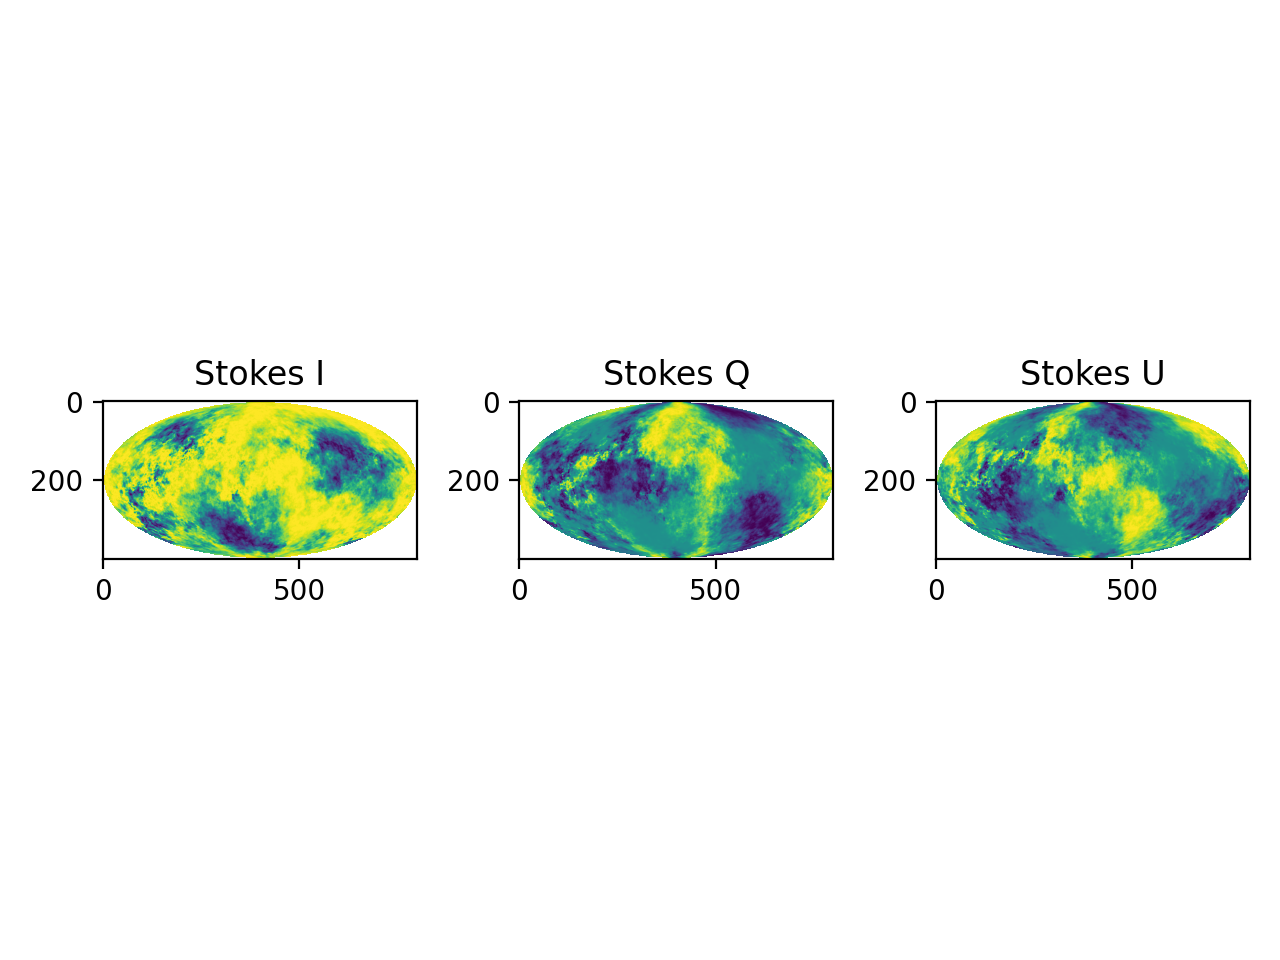
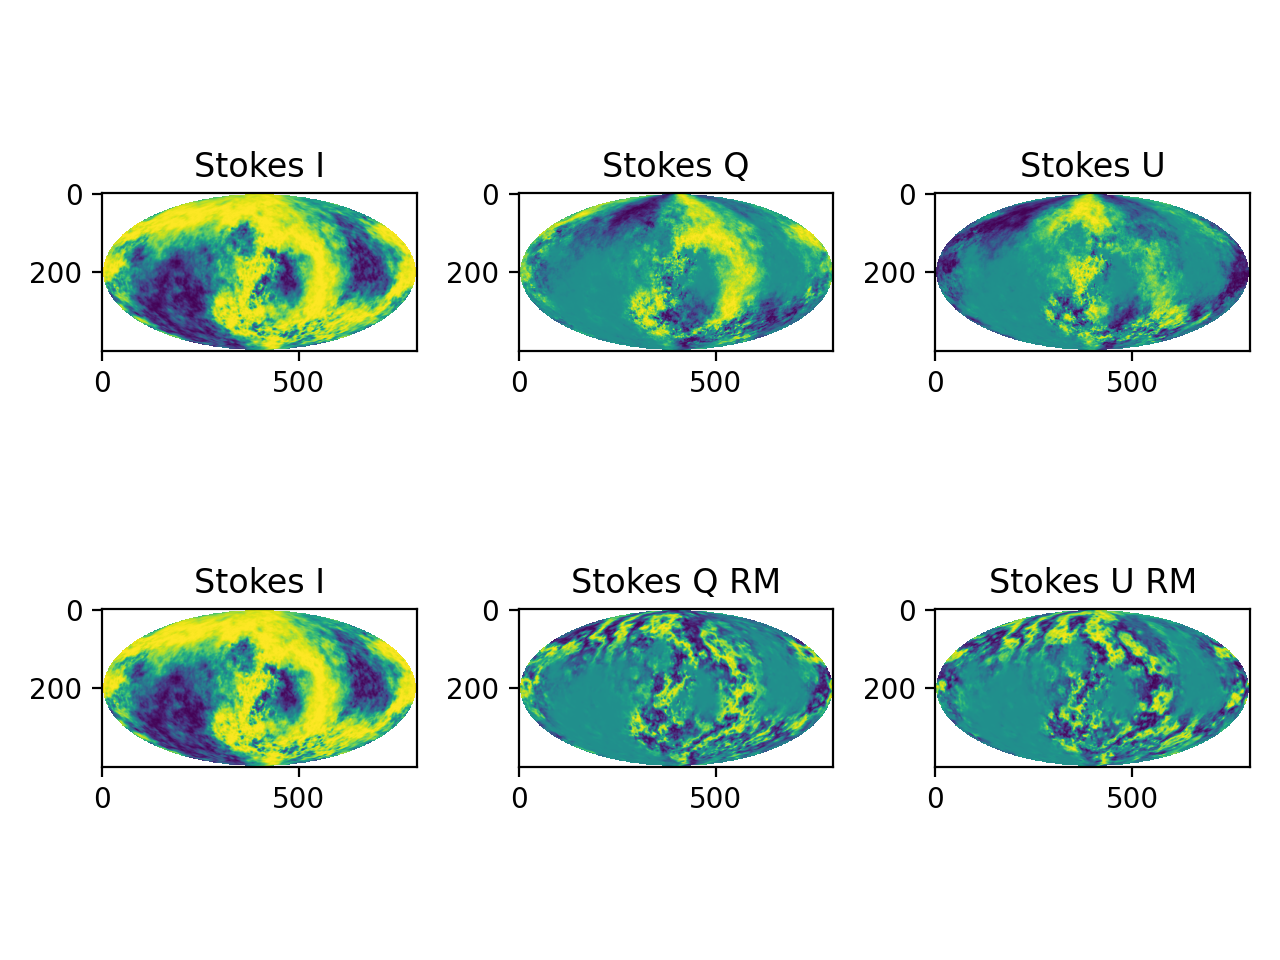
Add files via upload

diff --git a/4GMIMS/GMIMS_script.py b/4GMIMS/GMIMS_script.py
@@ -4,28 +4,98 @@ import pylab as plt
 import matplotlib
 from matplotlib import cm
 cm_my=cm.viridis
-from matplotlib import rc
 import astropy
 from astropy.io import fits
 import sys
 import math
 import scipy
-from scipy import ndimage as nd
-from scipy import stats as st
 from scipy import constants as ko
-from scipy import signal
-from astropy.utils.data import get_pkg_data_filename
 
 exec(open('Planck_routines.py').read())
 exec(open('SymPolpy_fun.py').read())
 plt.ion()
 
-nside=256
-blos, Is, Qs, Us, nuv = SymPolpy_fun(nside,30,70,24,1,5,2,400e6,800e6)
-cl0=hp.sphtfunc.anafast(Is[:,0],lmax=2*nside+1)
-el0=np.arange(np.shape(cl0)[0])
-#plt.figure();
-plt.loglog(el0,cl0,'.-',label='output spectrum')
-plt.xlabel('multipole')
-plt.ylabel('power [a.u.]')
+### create RM map
+def random_map_hpx(nside, alphaM, resol):
+    
+    '''
+        Routine to create healpix Gaussian random maps, with given nside, from power-law power spectra with slope alphaM. The FWHM of the maps must be given in input in arcmin (resol). The routine returns one random map with values between +1 and -1.
+        '''
+    
+    from numpy.random import MT19937
+    from numpy.random import RandomState, SeedSequence
+    import healpy as hp
+    import idlwrap as idl
+    
+    plt.ion()
+    
+    el=idl.findgen(nside*3+1)
+    cl=el**(alphaM)
+    cl[0:1]=0.
+    
+    rs = RandomState(MT19937(SeedSequence(123456789)))
+    mapran = hp.synfast(cl,nside=nside,lmax=2*nside+1,fwhm=resol/60*np.pi/180)
+    
+    return mapran/np.max(np.abs(mapran))
+    
+def pow2_hp(map,nside):
+    cl0=hp.sphtfunc.anafast(map,lmax=2*nside+1)
+    el0=np.arange(np.shape(cl0)[0])
+    plt.figure();
+    plt.loglog(el0,cl0,'.-',label='angular power spectrum')
+    plt.xlabel('multipole')
+    plt.ylabel('power [a.u.]')
+    return
 
+def rm_rot_hp(I,Q,U,RM,nu_v,beam):
+    '''
+        Rotating Stokes Q and U given rotation measure (RM)
+        Inputs: Stokes I, Q, U
+        RM map
+        frequency range in Hz
+        beam: if smoothing is not required put 0 otherwise in arcmin
+        '''
+    from scipy import constants as ko
+    N_ch = np.shape(nu_v)[0]
+    nx = np.shape(Q)[0]
+    Qnu = np.zeros([nx,N_ch])
+    Unu = np.zeros([nx,N_ch])
+    
+    for j in range(0,N_ch):
+        P = np.sqrt(Q[:,j]**2 + U[:,j]**2)
+        phi = 0.5*np.arctan2(U[:,j],Q[:,j])
+        phi[np.isnan(phi)]=0
+        Qnu[:,j] = P*np.cos(2*(RM*(ko.c/nu_v[j])**2 + phi))
+        Unu[:,j] = P*np.sin(2*(RM*(ko.c/nu_v[j])**2 + phi))
+        if (beam != 0) :
+            cube = np.zeros([3,nx])
+            cube[0,:] = I[:,j]
+            cube[1,:] = Qnu[:,j]
+            cube[2,:] = Unu[:,j]
+            cbo = hp.smoothing(cube,fwhm=beam/60.*np.pi/180.,pol=True)
+            I[:,j] = cbo[0,:]; Qnu[:,j]= cbo[1,:]; Unu[:,j]=cbo[2,:]
+    
+    return I, Qnu, Unu
+
+#### starting code
+nside=128
+blos, Is, Qs, Us, nuv = SymPolpy_fun(nside,1,70,24,1,5,20,400e6,800e6) # synchrotron emission only
+rm_map = random_map_hpx(nside, -3, 1)*10 # RM map
+Irm, Qrm, Urm = rm_rot_hp(Is,Qs,Us,rm_map,nuv,60) # Rotating Stokes parameters by RM and smoothing
+
+# showing plots
+pow2_hp(Is[:,0],nside)
+mi0 = hp.mollview(Is[:,0],return_projected_map=True)
+mq0 = hp.mollview(Qs[:,0],return_projected_map=True)
+mu0 = hp.mollview(Us[:,0],return_projected_map=True)
+mi1 = hp.mollview(Irm[:,0],return_projected_map=True)
+mq1 = hp.mollview(Qrm[:,0],return_projected_map=True)
+mu1 = hp.mollview(Urm[:,0],return_projected_map=True)
+
+plt.figure();plt.subplot(231);plt.imshow(mi0);plt.title('Stokes I');plt.subplot(232);plt.imshow(mq0);plt.title('Stokes Q');plt.subplot(233);plt.imshow(mu0);plt.title('Stokes U')
+plt.subplot(234);plt.imshow(mi1);plt.title('Stokes I');plt.subplot(235);plt.imshow(mq1);plt.title('Stokes Q RM');plt.subplot(236);plt.imshow(mu1);plt.title('Stokes U RM')
+plt.tight_layout()
+
+plt.figure();plt.plot(nuv/1e6,Qs[10,:],label='NO RM');plt.plot(nuv/1e6,Qrm[10,:],label='RM rotated');plt.xlabel('frequency [MHz]');plt.ylabel('Stokes Q [a.u.]');plt.legend()
+
+hp.mollview(rm_map,cmap='seismic');plt.title('RM')
